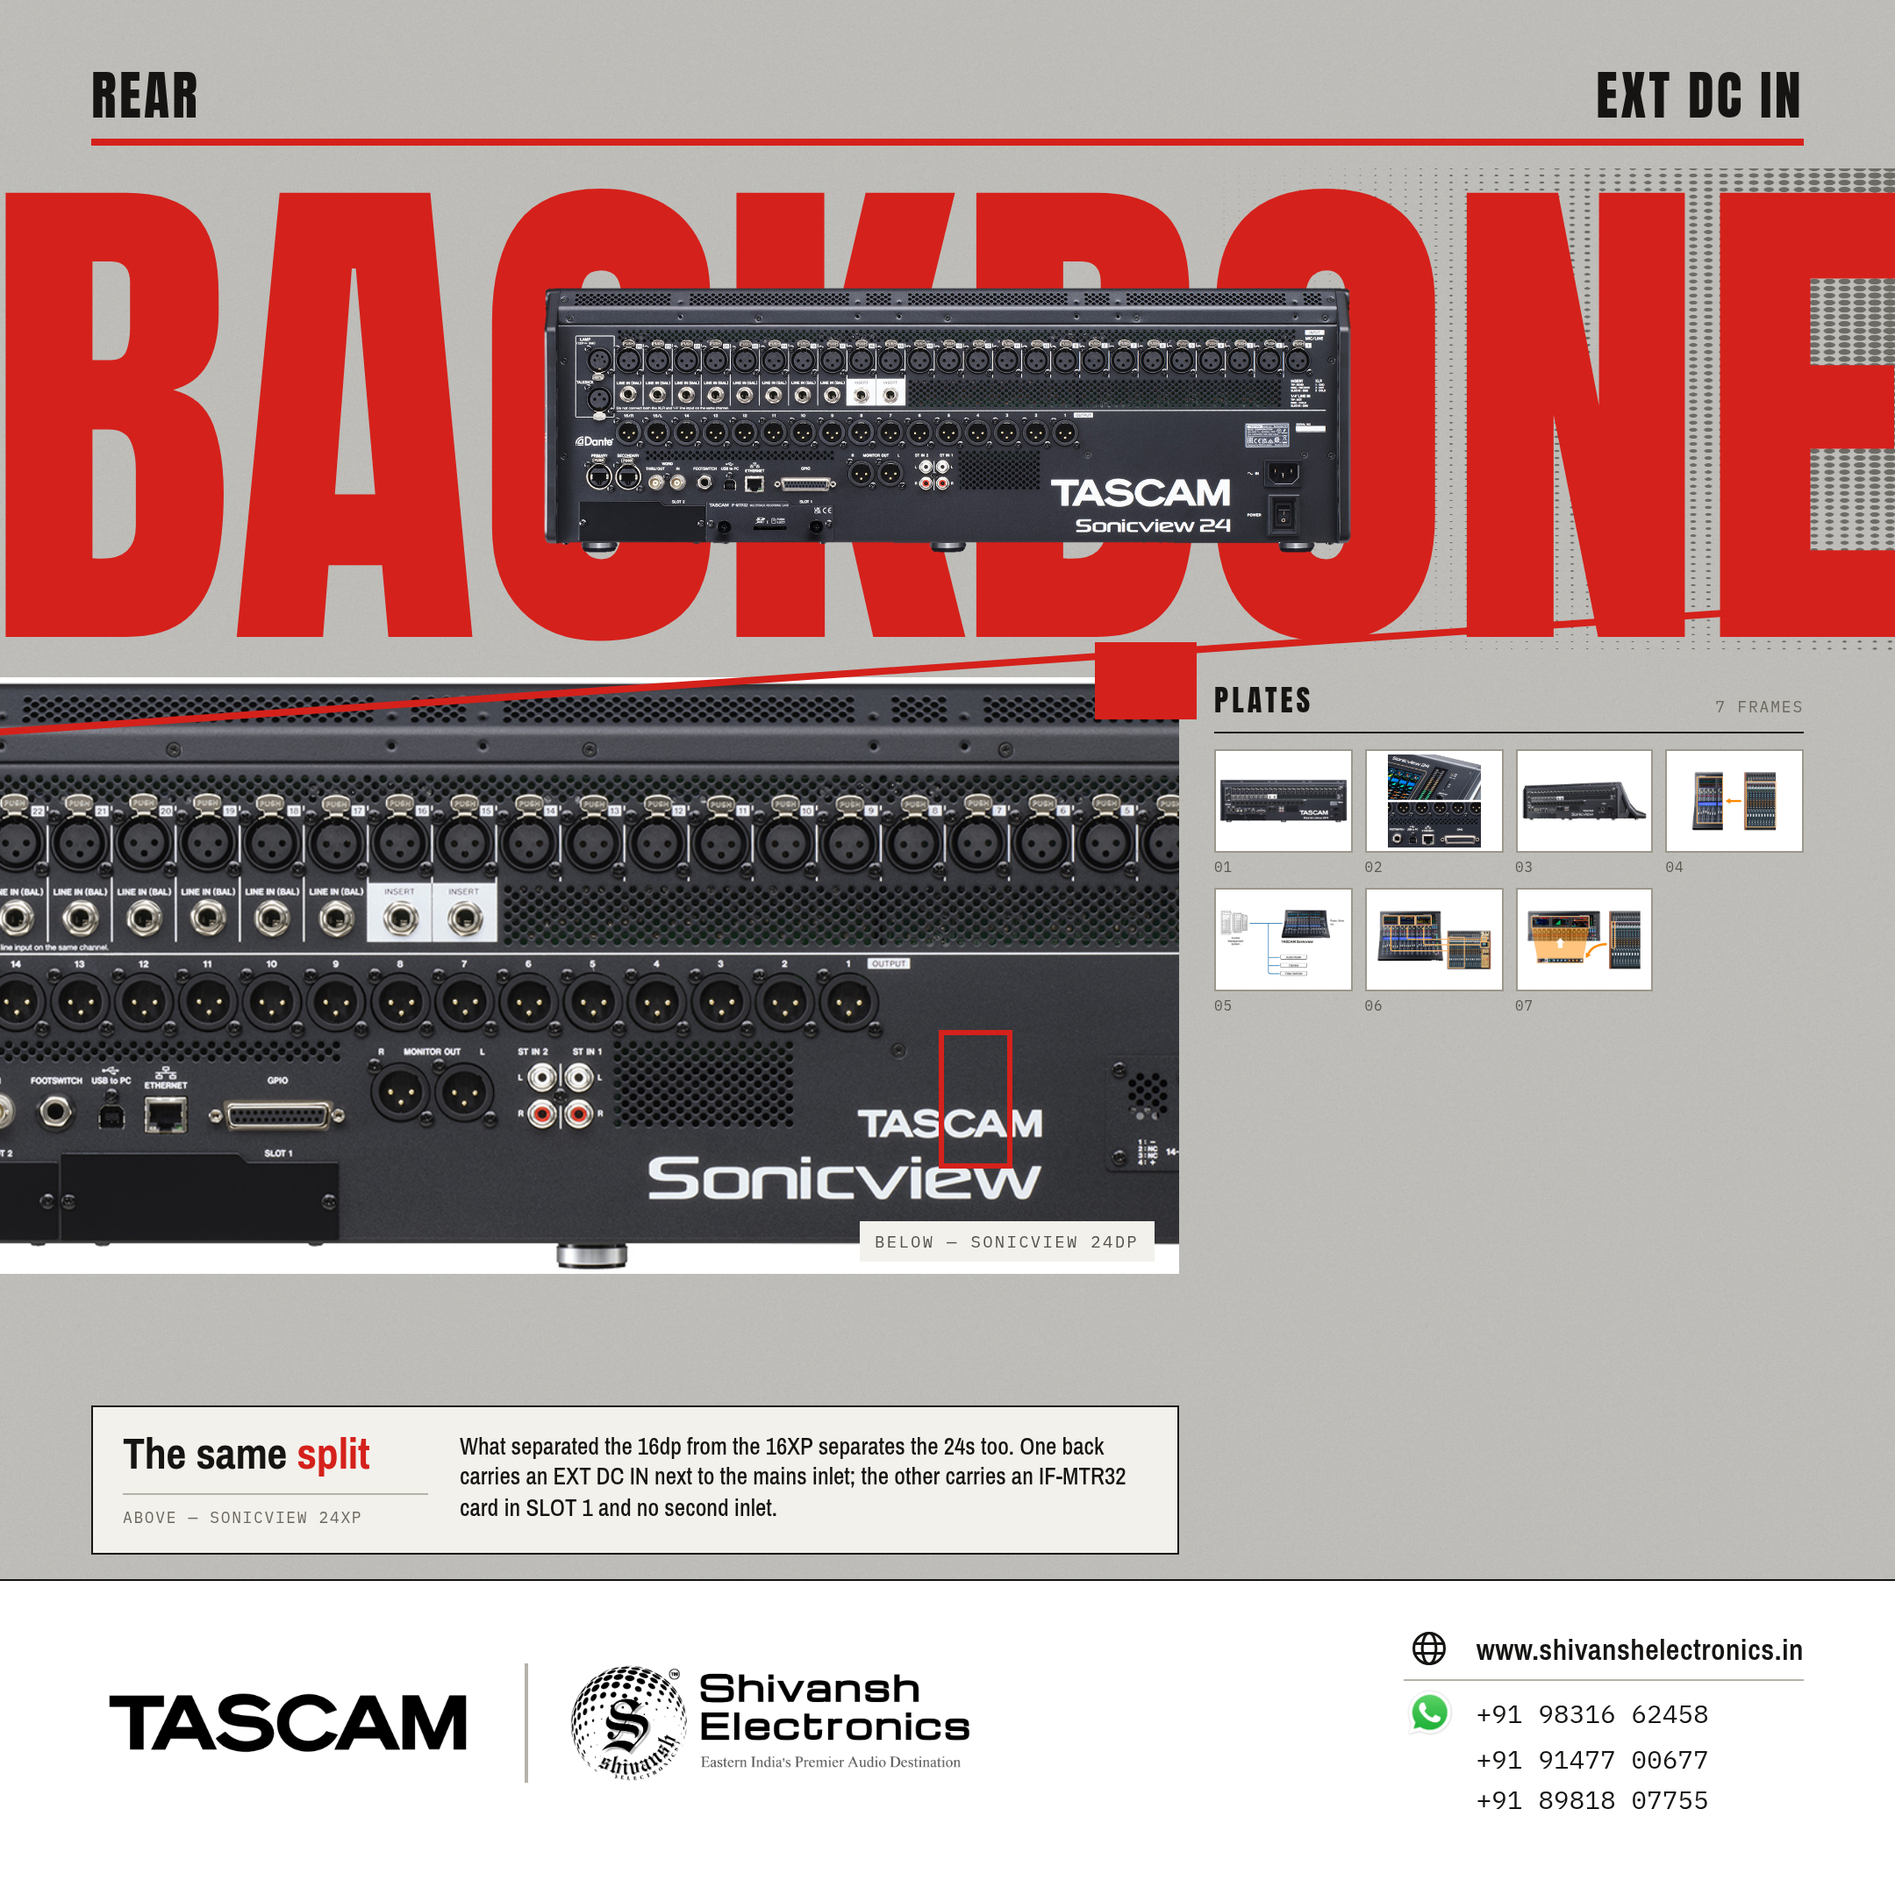
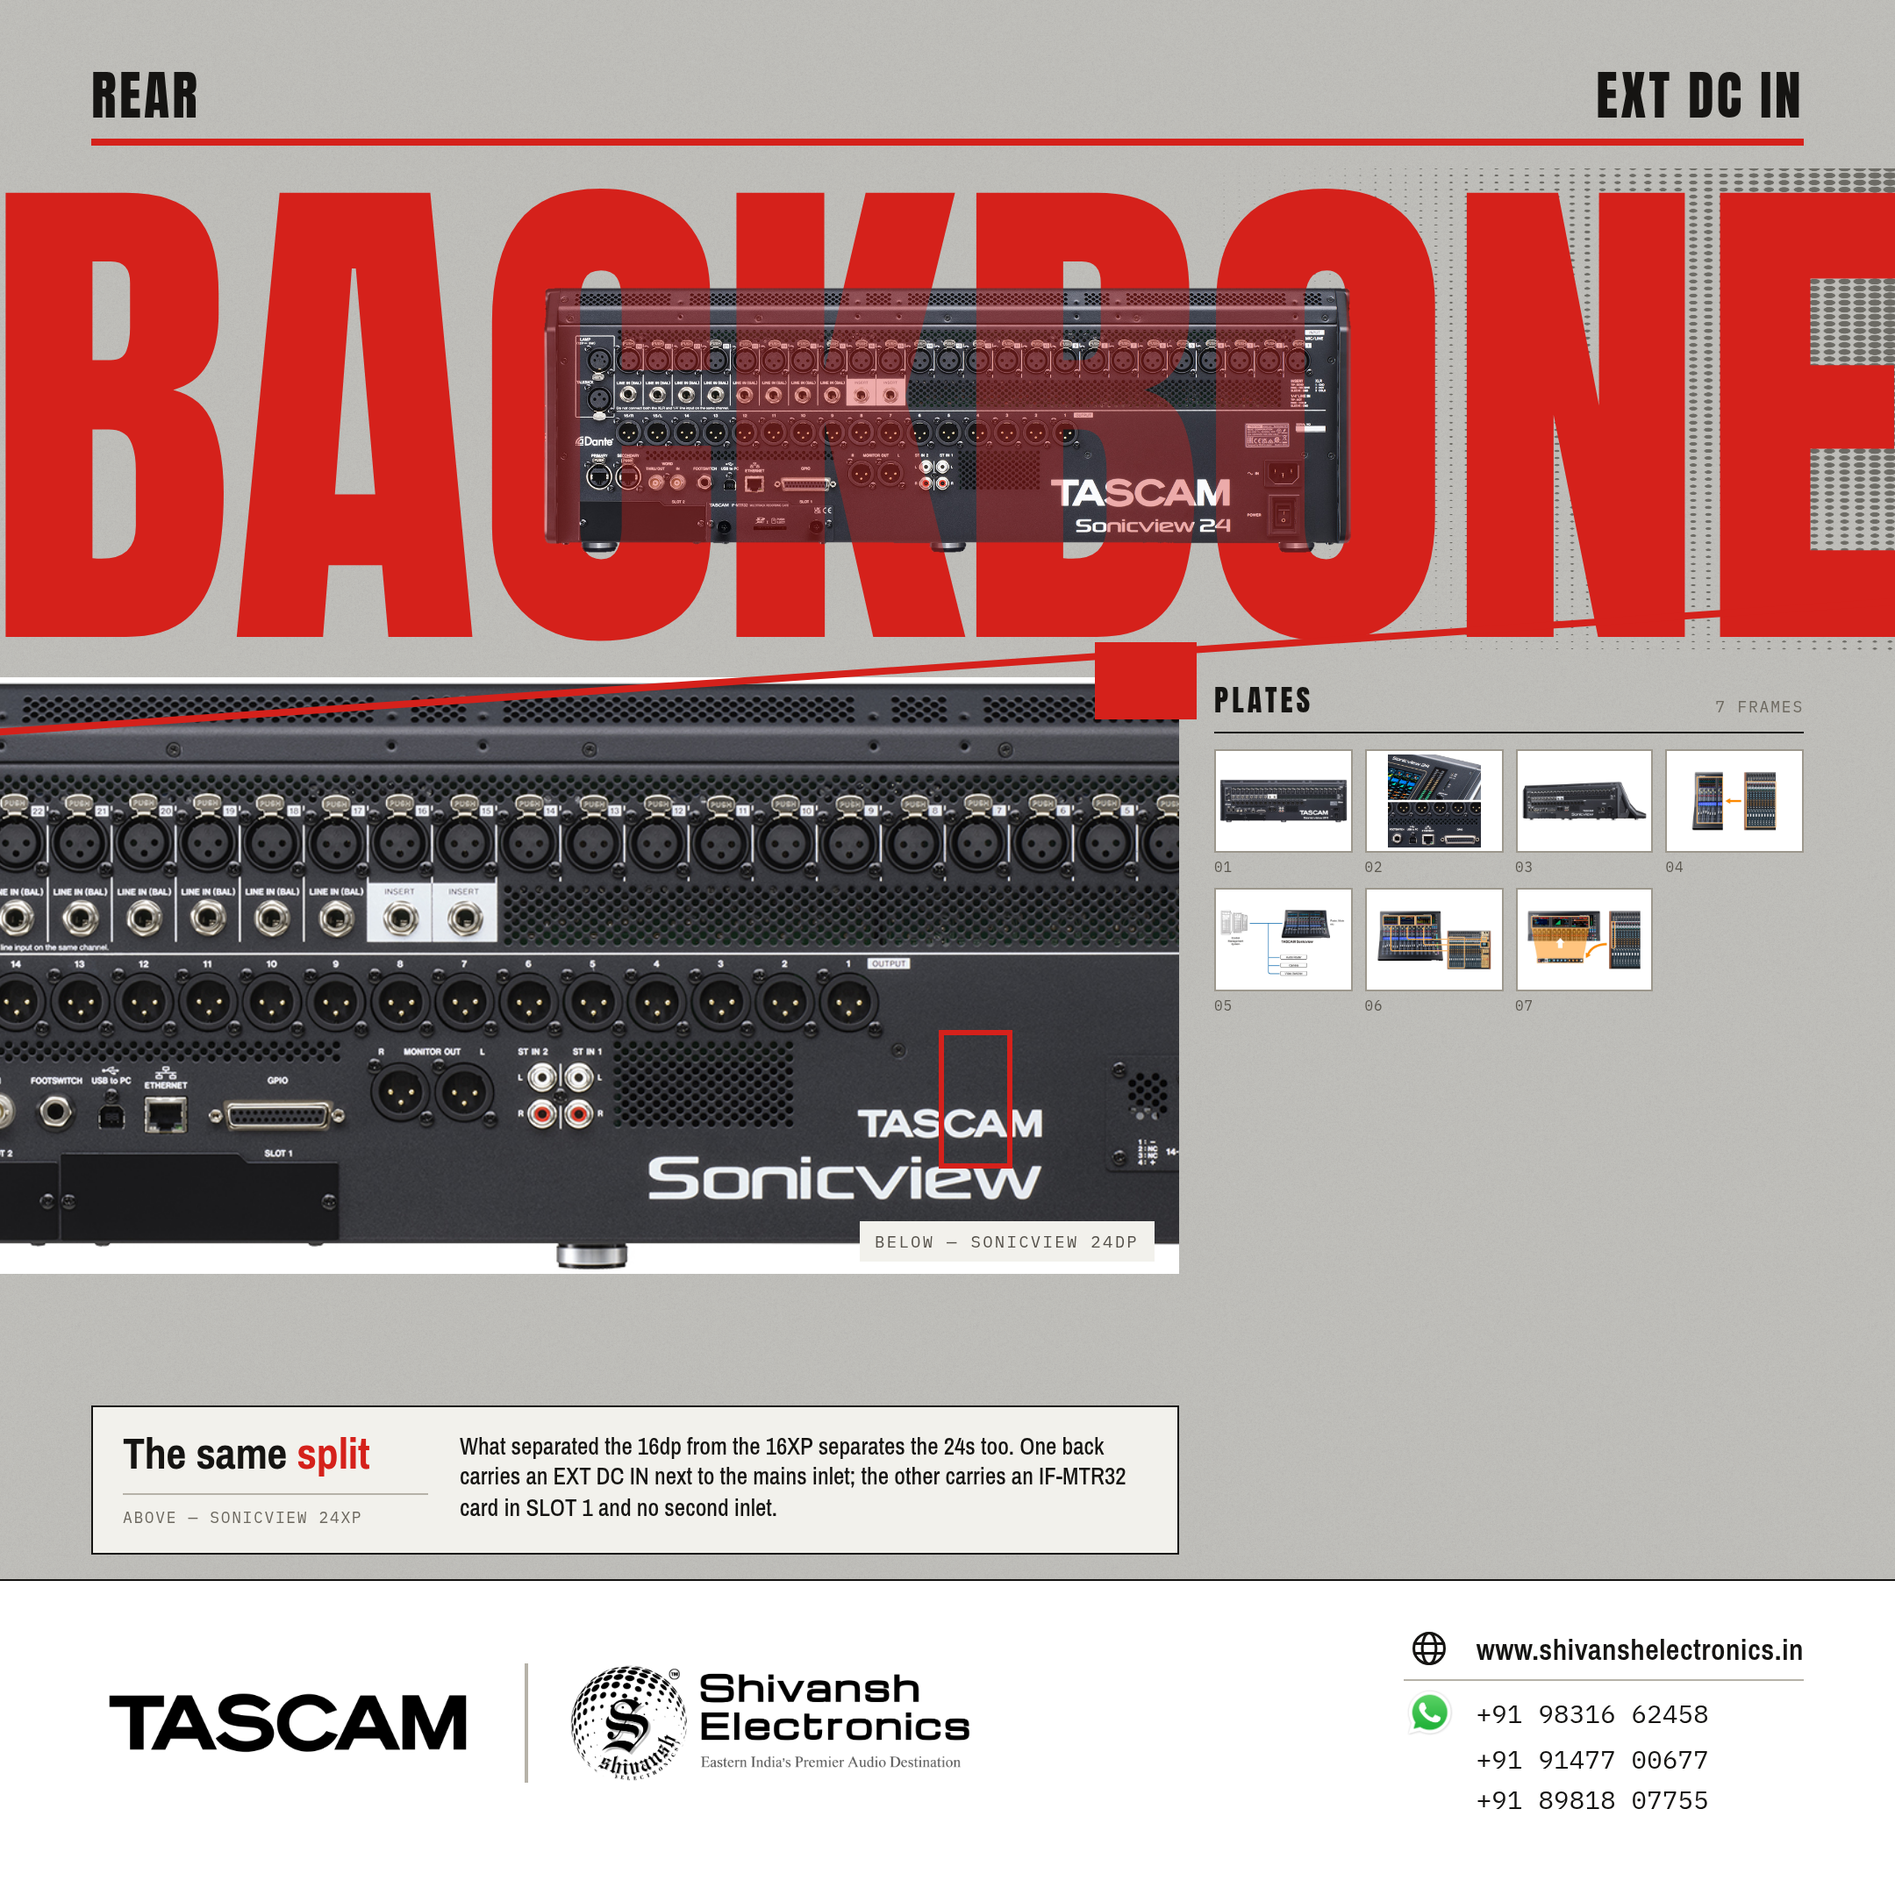
Bring buried headline type forward over the product photographs at 36%
Where a photograph covered the display line, those letters were simply lost.
They are now brought forward over the product at 36% opacity, so the word
reads end to end while the chassis, its connector legends and its branding
stay legible underneath.

The effect is per-pixel rather than per-letter. The headline is drawn twice:
the base layer stays behind the photograph at full opacity, which is what
renders every uncovered part unchanged, and a second copy sits above it
masked by the hero's own alpha. A glyph half behind the chassis therefore
keeps its exposed half at full strength and brings only its buried half
forward, with the transition falling exactly on the product's outline rather
than on a bounding box. Where the product does not cover the line the mask is
empty, nothing paints, and the base layer shows through untouched.

36% was chosen by rendering 0.28/0.36/0.44/0.52 and comparing: above it the
chassis washes red and the connector legends go, below it the type is a ghost.

A CSS mask-image is fetched as a cross-origin resource and Chromium blocks
file:// for those, even though an <img> from the same path loads fine, so the
renderer now launches with --allow-file-access-from-files. Without it the mask
resolves to nothing and the layer never paints, silently.

Because the overlay tints the product inside the letterforms by design, the
renderer also writes a control frame per slide with the layer hidden. Colour
[…]

Changed region(s): [[0.2792, 0.1551, 0.7134, 0.3102]]

diff --git a/design/src/build_sq.py b/design/src/build_sq.py
@@ -33,6 +33,11 @@ from spec import SPEC
 from PIL import Image
 
 OUTDIR = os.path.join(SP, 'slides'); os.makedirs(OUTDIR, exist_ok=True)
+# A control frame per slide with the forward text layer hidden. It is what lets
+# the verification pass still prove the photograph itself is unaltered: the
+# overlay tints the product on purpose, so comparing the final frame with the
+# source would report a failure that is actually the approved design.
+CTRL = os.path.join(SP, 'control'); os.makedirs(CTRL, exist_ok=True)
 PAGES = os.path.join(SP, 'pages'); os.makedirs(PAGES, exist_ok=True)
 CHROME = '/opt/pw-browsers/chromium-1194/chrome-linux/chrome'
 
@@ -82,6 +87,13 @@ body{background:var(--paper);color:var(--ink);
 .hl span{display:inline-block}
 .hero{position:absolute;z-index:14}
 .hero img{display:block;width:100%;height:auto}
+/* 02b the same display line again, in front of the photograph and masked to the
+   product's own silhouette, so ONLY the part of a glyph that would otherwise be
+   hidden is brought forward. Everything outside the silhouette renders from the
+   base layer below, untouched. */
+.over{position:absolute;left:0;top:0;width:100%;z-index:15;opacity:.36;
+  pointer-events:none;
+  -webkit-mask-repeat:no-repeat;mask-repeat:no-repeat;mask-mode:alpha}
 
 /* 06 the lower photograph, bleeding off the left edge of the square */
 .band{position:absolute;left:0;z-index:12;overflow:hidden}
@@ -160,6 +172,7 @@ body{background:var(--paper);color:var(--ink);
   <div class="head">
     <div class="hl l1"><span id="l1">$HEADWORD</span></div>
     <div class="hero" id="hero"><img src="../../sv/build/hero_$SL.png" alt=""></div>
+    <div class="hl l1 over" id="over" aria-hidden="true"><span id="l1o">$HEADWORD</span></div>
   </div>
 
   <div class="band" id="band"><img src="../../sv/build/band_$SL.png" alt=""></div>
@@ -297,11 +310,29 @@ async function layout(){
   const lo = a.left + 0.40 * a.width, hi = z.right - 0.40 * z.width;
   let hx = (r1.left + r1.width / 2) - hw / 2;
   if (hi - lo >= hw) hx = Math.min(Math.max(hx, lo), hi - hw);
-  hero.style.left = (hx - hb.left) + 'px';
+  const hxr = hx - hb.left, hyr0 = r1.top + (r1.height - hh) / 2;
+  hero.style.left = hxr + 'px';
   hero.style.width = hw + 'px';
-  let hy = r1.top + (r1.height - hh) / 2;
-  hy = Math.min(Math.max(hy, 100), ZONE_TOP - 12 - hh);
-  hero.style.top = (hy - hb.top) + 'px';
+  let hy = Math.min(Math.max(hyr0, 100), ZONE_TOP - 12 - hh);
+  const hyr = hy - hb.top;
+  hero.style.top = hyr + 'px';
+
+  // The forward copy: identical metrics, then masked by the hero's own alpha so
+  // it exists only where the photograph actually covers the letters. A glyph
+  // half behind the chassis gets its buried half brought forward and the rest
+  // left alone; a glyph clear of the photograph is untouched, because the mask
+  // is empty there and nothing paints.
+  const ov = document.getElementById('over'), l1o = document.getElementById('l1o');
+  ov.style.fontSize = size + 'px';
+  if (track > 0.4) {
+    l1o.style.letterSpacing = `calc(-0.008em + $${track}px)`;
+    l1o.style.marginRight = (-track)+'px';
+  }
+  const mi = `url('../../sv/build/hero_$SL.png')`;
+  const msz = `$${hw}px $${hh}px`, mps = `$${hxr}px $${hyr}px`;
+  ov.style.webkitMaskImage = mi; ov.style.maskImage = mi;
+  ov.style.webkitMaskSize = msz; ov.style.maskSize = msz;
+  ov.style.webkitMaskPosition = mps; ov.style.maskPosition = mps;
 
   const headBottom = r1.bottom;
 
@@ -404,9 +435,14 @@ def main(only=None):
     if os.path.exists(fitpath):
         fits = json.load(open(fitpath))
     with sync_playwright() as pw:
+        # --allow-file-access-from-files: a CSS mask-image is fetched as a
+        # cross-origin resource, and Chromium blocks file:// for those even
+        # though an <img> from the same path loads fine. Without it the mask
+        # silently resolves to nothing and the forward text layer never paints.
         b = pw.chromium.launch(executable_path=CHROME,
                                args=['--no-sandbox', '--disable-dev-shm-usage',
-                                     '--force-color-profile=srgb'])
+                                     '--force-color-profile=srgb',
+                                     '--allow-file-access-from-files'])
         for sl in targets:
             s = SPEC[sl]
             page = build_html(sl, s)
@@ -417,7 +453,12 @@ def main(only=None):
             pg.wait_for_function("document.documentElement.dataset.ready==='1'", timeout=40000)
             pg.wait_for_timeout(300)
             fit = pg.evaluate("document.documentElement.dataset.fit")
-            out = os.path.join(OUTDIR, s['name'].replace('_', '_sq_', 1) + '.png')
+            stem = s['name'].replace('_', '_sq_', 1) + '.png'
+            # control first, in the same page context -- no reload needed
+            pg.evaluate("document.getElementById('over').style.display='none'")
+            pg.screenshot(path=os.path.join(CTRL, stem), scale='device')
+            pg.evaluate("document.getElementById('over').style.display=''")
+            out = os.path.join(OUTDIR, stem)
             pg.screenshot(path=out, scale='device')
             pg.close()
             im = Image.open(out)

diff --git a/design/src/verify_sq.py b/design/src/verify_sq.py
@@ -79,7 +79,11 @@ for sl in sorted(SPEC):
     p = os.path.join(SLIDES, name(sl))
     if not os.path.exists(p):
         continue
-    slide = np.asarray(Image.open(p).convert('RGB')).astype(np.float32)
+    # the control frame: identical in every respect but with the forward text
+    # layer hidden, so this still measures the photograph rather than the design
+    ctrl = os.path.join(SP, 'control', name(sl))
+    slide = np.asarray(Image.open(ctrl if os.path.exists(ctrl) else p)
+                       .convert('RGB')).astype(np.float32)
     out = []
 
     # --- lower band: object-fit cover into a fixed 672 x 340 slot.
@@ -175,3 +179,52 @@ for sl in sorted(fits):
     print(f'   {sl}  line {f["size"]:5.1f}px / {f["lineW"]}pt   hero {f["hero"][1]}x{f["hero"][2]}'
           f'   register {f["cols"]}col x{f["regRows"]} -> {rb:3}   caption -> {cb:3}'
           f'   {"OK" if ok else "*** OVERRUN ***"}')
+
+
+print()
+print('=' * 78)
+print('5b. FORWARD TEXT LAYER   (final frame vs the same frame with it hidden)')
+print('   the overlay must touch ONLY pixels inside the product silhouette --')
+print('   any glyph ink on bare paper has to come from the untouched base layer')
+worst_out = 0
+for sl in sorted(SPEC):
+    fin = os.path.join(SLIDES, name(sl)); ctl = os.path.join(SP, 'control', name(sl))
+    if not (os.path.exists(fin) and os.path.exists(ctl)):
+        continue
+    a = np.asarray(Image.open(fin).convert('RGB')).astype(np.int16)
+    b = np.asarray(Image.open(ctl).convert('RGB')).astype(np.int16)
+    diff = np.abs(a - b).max(2) > 6
+
+    # the hero's own alpha, placed exactly as the page places it
+    f = fits[sl]
+    hx, hw, hh = f['hero']; hy = f['heroY']
+    src = Image.open(os.path.join(BUILD, f'hero_{sl}.png'))
+    hwD, hhD = round(hw*S), round(hh*S)
+    rs = src.resize((hwD, hhD), Image.LANCZOS)
+    alpha = (np.asarray(rs.split()[3]) > 8) if rs.mode == 'RGBA' else np.ones((hhD, hwD), bool)
+    foot = np.zeros(diff.shape, bool)
+    y0, x0 = round(hy*S), round(hx*S)
+    y1, x1 = min(y0+hhD, foot.shape[0]), min(x0+hwD, foot.shape[1])
+    foot[y0:y1, x0:x1] = alpha[:y1-y0, :x1-x0]
+
+    # The mattes carry a 0.7px Gaussian feather, and Chromium's mask resampling
+    # does not land identically on PIL's reconstruction of it, so a handful of
+    # boundary pixels take a faint partial overlay. Allow exactly one pixel of
+    # edge tolerance and count anything further out as a genuine leak.
+    def dilate(m, n=1):
+        for _ in range(n):
+            o = m.copy()
+            o[1:, :] |= m[:-1, :]; o[:-1, :] |= m[1:, :]
+            o[:, 1:] |= m[:, :-1]; o[:, :-1] |= m[:, 1:]
+            m = o
+        return m
+    edge = dilate(foot, 1)
+    outside = int((diff & ~edge).sum())
+    fringe = int((diff & edge & ~foot).sum())
+    inside = int((diff & foot).sum())
+    worst_out = max(worst_out, outside)
+    pct = 100.0 * inside / max(1, int(foot.sum()))
+    print(f'   {sl}  changed inside silhouette {inside:8,} px ({pct:5.1f}% of it)   '
+          f'1px fringe {fringe:4,}   beyond {outside:5,} px   '
+          f'{"OK" if outside == 0 else "*** LEAK ***"}')
+print(f'   -> pixels altered outside any product silhouette, whole set: {worst_out}')

diff --git a/design/README.md b/design/README.md
@@ -26,6 +26,36 @@ so a desk is not cropped through both ends), a caption turned on its side into a
 figure caption beneath the photograph, and a register tall enough for twenty
 plates.
 
+## The forward text layer
+
+Where the photograph covers the display line, the buried part of the type is
+brought forward over it at 36% rather than being lost. This is per-pixel, not
+per-letter: a glyph half behind the chassis keeps its exposed half at full
+strength and only its buried half comes forward, and the transition happens
+exactly on the product's outline.
+
+It works by drawing the headline twice. The base layer stays behind the
+photograph at full opacity — that is what renders every uncovered part
+unchanged. A second copy sits above the photograph, masked by the hero's own
+alpha, at 36%. Where the product does not cover the line the mask is empty, so
+nothing paints there and the base layer shows through untouched.
+
+36% was chosen by rendering 0.28 / 0.36 / 0.44 / 0.52 and comparing: above it
+the chassis washes red and the connector legends go; below it the type is a
+ghost.
+
+Two things worth knowing if you touch this:
+
+- A CSS `mask-image` is fetched as a **cross-origin** resource and Chromium
+  blocks `file://` for those, even though an `<img>` from the same path loads
+  fine. Without `--allow-file-access-from-files` on the browser launch the mask
+  silently resolves to nothing and the layer never paints, with no error.
+- The overlay tints the product inside the letterforms by design, so the colour
+  check would report it as a failure. The renderer therefore also writes a
+  `control/` frame per slide with the layer hidden, and the colour check
+  measures that — leaving the photograph pipeline honestly verified while the
+  overlay is audited separately for containment.
+
 ## Rules the build holds to
 
 - Every product photograph and both logos appear in their **original colour**,
@@ -43,7 +73,12 @@ image coverage, per-channel colour drift of each photograph against its source,
 and a regex scan of the generated markup. Latest run — 10/10 exact at
 2160 × 2160; 129 placements, 129 distinct, none unplaced; worst per-channel
 drift **0.52 of 255**, identical across R, G and B (resampling, not a colour
-change); no prohibited content.
+change); no prohibited content; and **zero pixels altered outside any product
+silhouette** by the forward text layer. The 344 and 49 boundary pixels on slides
+07 and 08 all fall within one pixel of the outline — the mattes carry a 0.7px
+feather and Chromium's mask resampling does not land identically on PIL's
+reconstruction of it — so the check allows exactly one pixel of edge tolerance
+and counts anything further out as a genuine leak.
 
 Note the colour check must mask the paper caption chip and red geometry that sit
 deliberately *on* the band. At 672px wide the chip alone is 2.5% of the band's
